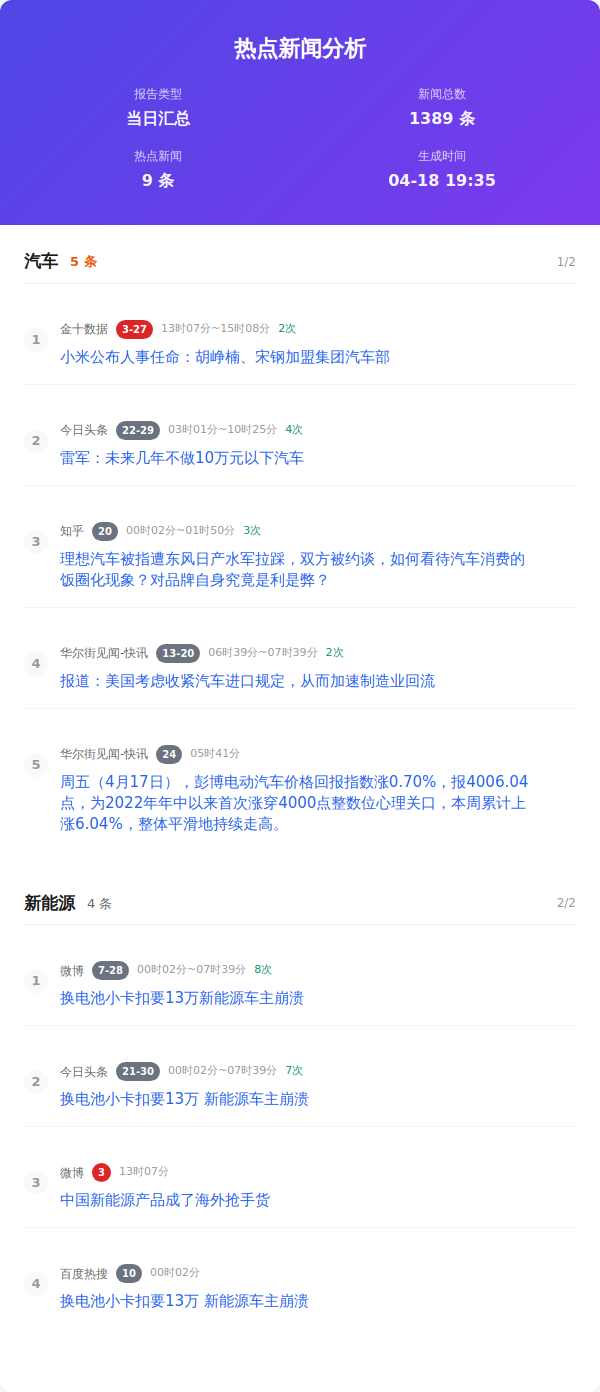
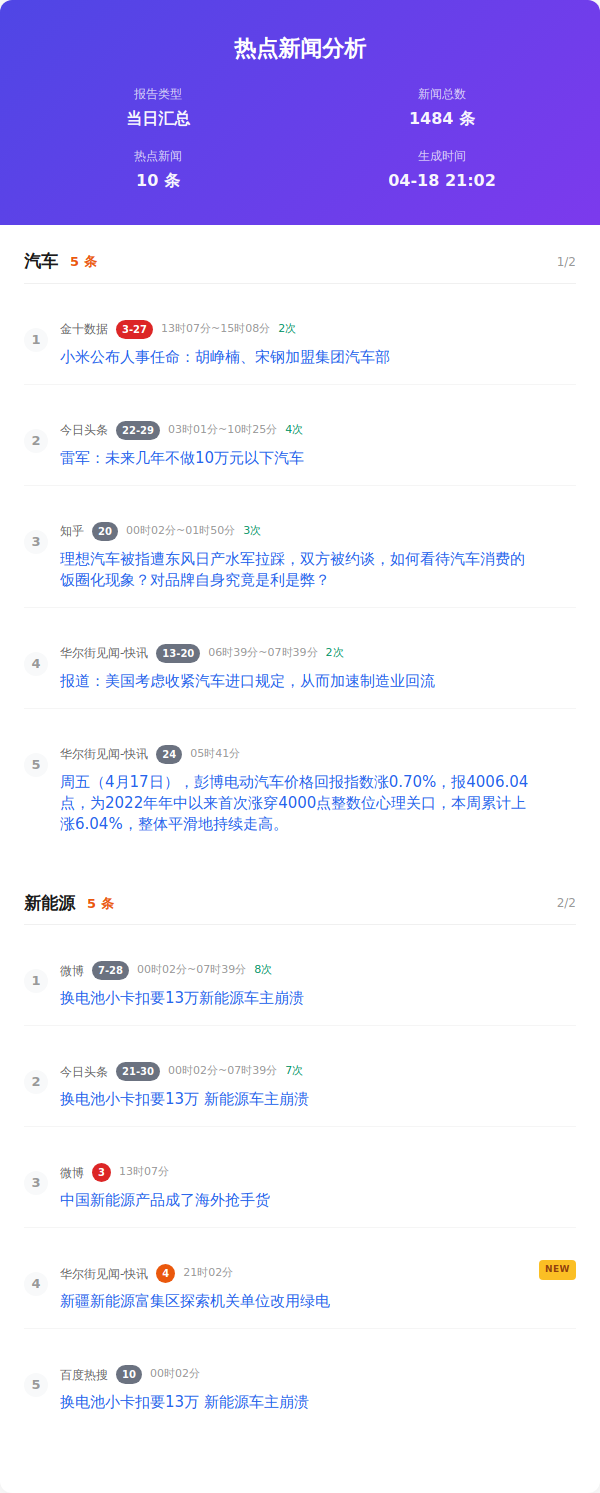
Auto update by GitHub Actions at Sat Apr 18 21:02:58 CST 2026

diff --git a/index.html b/index.html
@@ -357,15 +357,15 @@
                     </div>
                     <div class="info-item">
                         <span class="info-label">新闻总数</span>
-                        <span class="info-value">1389 条</span>
+                        <span class="info-value">1484 条</span>
                     </div>
                     <div class="info-item">
                         <span class="info-label">热点新闻</span>
-                        <span class="info-value">9 条</span>
+                        <span class="info-value">10 条</span>
                     </div>
                     <div class="info-item">
                         <span class="info-label">生成时间</span>
-                        <span class="info-value">04-18 19:35</span>
+                        <span class="info-value">04-18 21:02</span>
                     </div>
                 </div>
             </div>
@@ -434,7 +434,7 @@
                     <div class="word-header">
                         <div class="word-info">
                             <div class="word-name">新能源</div>
-                            <div class="word-count ">4 条</div>
+                            <div class="word-count warm">5 条</div>
                         </div>
                         <div class="word-index">2/2</div>
                     </div>
@@ -468,8 +468,18 @@
                             </div>
                         </div>
                     </div>
-                    <div class="news-item ">
+                    <div class="news-item new">
                         <div class="news-number">4</div>
+                        <div class="news-content">
+                            <div class="news-header">
+                                <span class="source-name">华尔街见闻-快讯</span><span class="rank-num high">4</span><span class="time-info">21时02分</span>
+                            </div>
+                            <div class="news-title"><a href="https://wallstreetcn.com/livenews/3090477" target="_blank" class="news-link">新疆新能源富集区探索机关单位改用绿电</a>
+                            </div>
+                        </div>
+                    </div>
+                    <div class="news-item ">
+                        <div class="news-number">5</div>
                         <div class="news-content">
                             <div class="news-header">
                                 <span class="source-name">百度热搜</span><span class="rank-num ">10</span><span class="time-info">00时02分</span>

diff --git a/output/2026年04月18日/html/当日汇总.html b/output/2026年04月18日/html/当日汇总.html
@@ -357,15 +357,15 @@
                     </div>
                     <div class="info-item">
                         <span class="info-label">新闻总数</span>
-                        <span class="info-value">1389 条</span>
+                        <span class="info-value">1484 条</span>
                     </div>
                     <div class="info-item">
                         <span class="info-label">热点新闻</span>
-                        <span class="info-value">9 条</span>
+                        <span class="info-value">10 条</span>
                     </div>
                     <div class="info-item">
                         <span class="info-label">生成时间</span>
-                        <span class="info-value">04-18 19:35</span>
+                        <span class="info-value">04-18 21:02</span>
                     </div>
                 </div>
             </div>
@@ -434,7 +434,7 @@
                     <div class="word-header">
                         <div class="word-info">
                             <div class="word-name">新能源</div>
-                            <div class="word-count ">4 条</div>
+                            <div class="word-count warm">5 条</div>
                         </div>
                         <div class="word-index">2/2</div>
                     </div>
@@ -468,8 +468,18 @@
                             </div>
                         </div>
                     </div>
-                    <div class="news-item ">
+                    <div class="news-item new">
                         <div class="news-number">4</div>
+                        <div class="news-content">
+                            <div class="news-header">
+                                <span class="source-name">华尔街见闻-快讯</span><span class="rank-num high">4</span><span class="time-info">21时02分</span>
+                            </div>
+                            <div class="news-title"><a href="https://wallstreetcn.com/livenews/3090477" target="_blank" class="news-link">新疆新能源富集区探索机关单位改用绿电</a>
+                            </div>
+                        </div>
+                    </div>
+                    <div class="news-item ">
+                        <div class="news-number">5</div>
                         <div class="news-content">
                             <div class="news-header">
                                 <span class="source-name">百度热搜</span><span class="rank-num ">10</span><span class="time-info">00时02分</span>